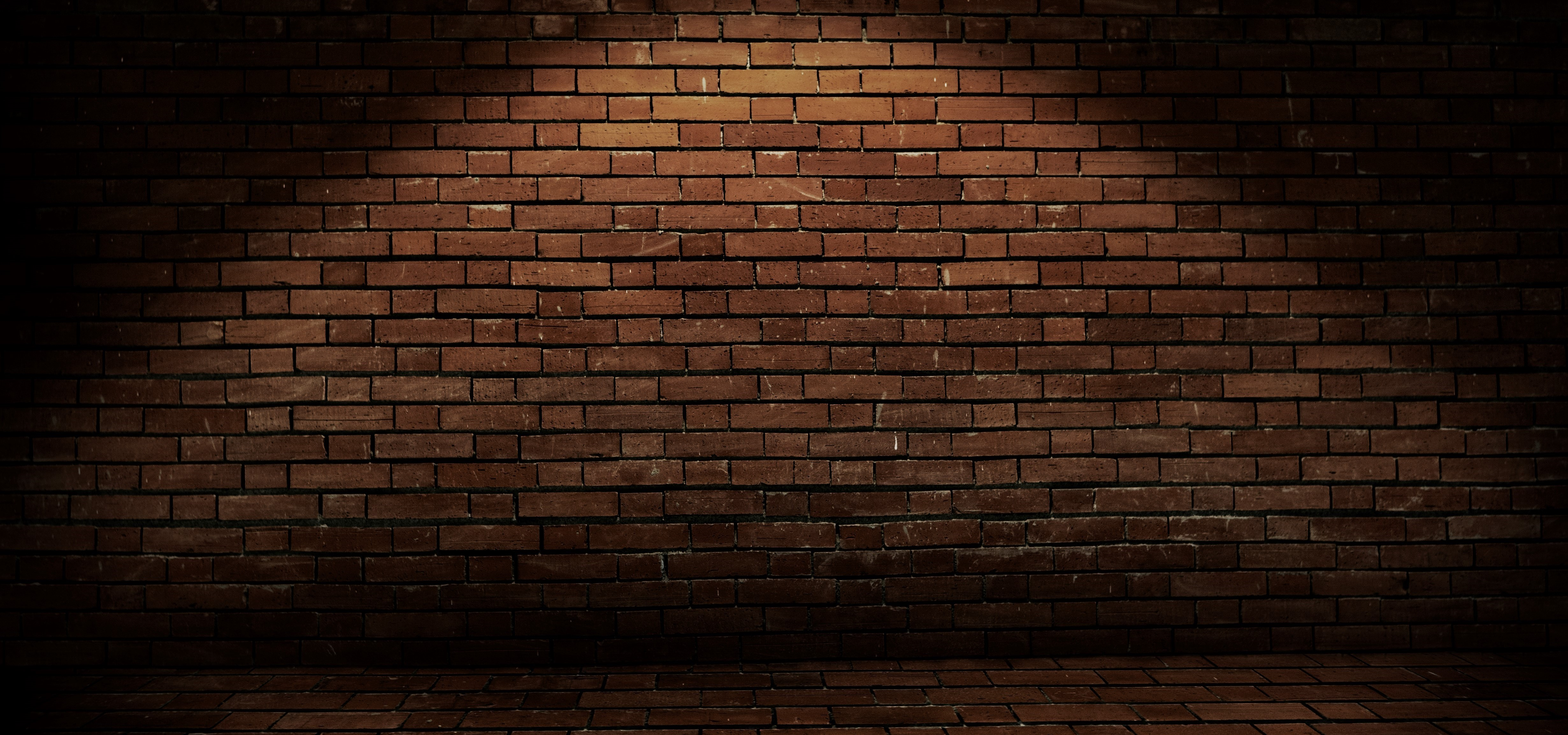
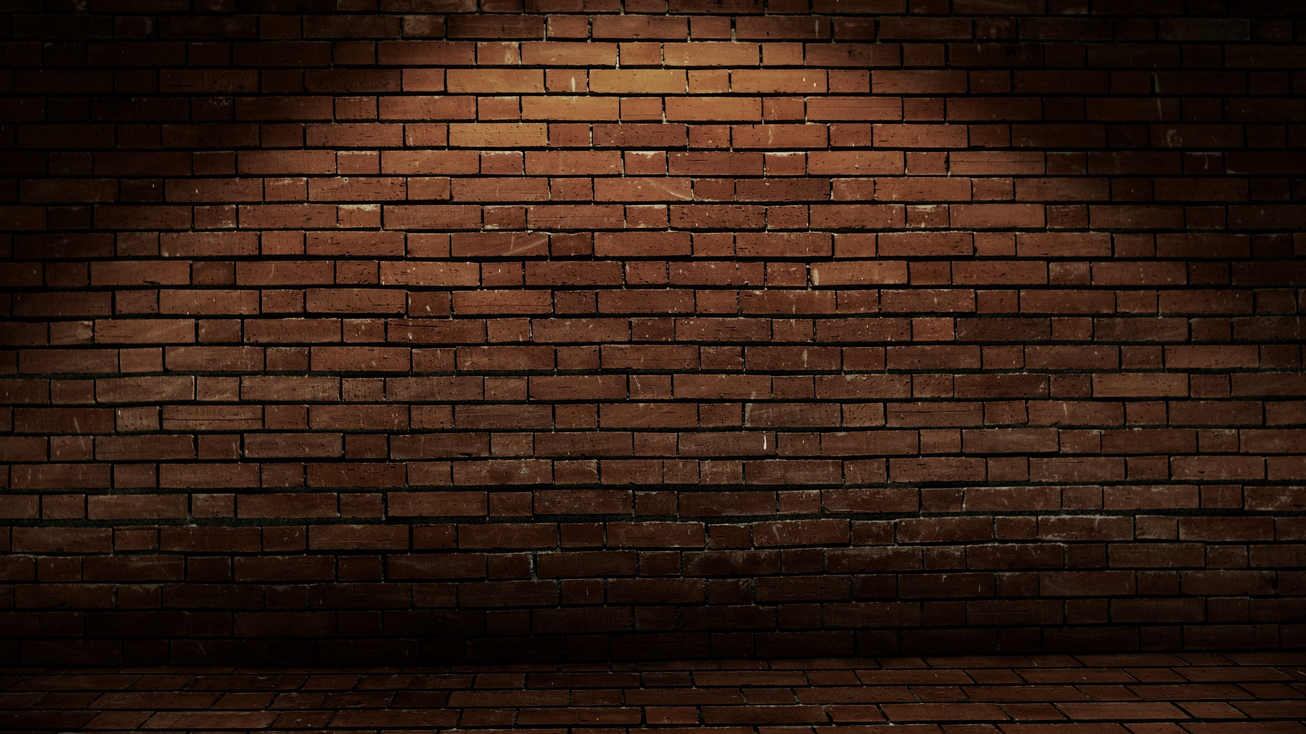
modify full screen ratio

diff --git a/backend/src/flaskapp/static/css/result.css b/backend/src/flaskapp/static/css/result.css
@@ -130,10 +130,11 @@ a:visited { color: black; text-decoration: none;}
     left:28%;
     right:28%;
     top:62%;
-    font-size: 3vw;
+    font-size: 4.5vw;
     color: #fff;
     font-family: 'East Sea Dokdo', cursive;
     font-weight: 200;
+    text-align:center;
 }
 
 p.result1{
@@ -142,6 +143,7 @@ p.result1{
     line-height: 65px;
     box-sizing: border-box;
     padding:0; margin:5px;
+    text-align:center;
 }
 #back{
     position: absolute;

diff --git a/backend/src/flaskapp/static/css/start.css b/backend/src/flaskapp/static/css/start.css
@@ -35,7 +35,7 @@ a:visited { color: black; text-decoration: none;}
     position: absolute;
     left:26.5%;
     right:23.5%;
-    top:33%;
+    top:38%;
     font-size: 5vw;
     color: #000;
     font-family: 'East Sea Dokdo', cursive;
@@ -49,6 +49,7 @@ p.result1{
     line-height: 110px;
     box-sizing: border-box;
     padding:0; margin:5px;
+    text-align:center;
 }
 
 .wrap {

diff --git a/backend/src/flaskapp/templates/luck.html b/backend/src/flaskapp/templates/luck.html
@@ -18,7 +18,7 @@
         <div id="text-box">
             <p class="result1"></p>
             <br>
-            <p class="result2" style="font-size: 65px;"></p>
+            <p class="result2" style="font-size: 85px;"></p>
             <script src="../static/js/luck.js"></script>
         </div>
         <div class="wrap">

diff --git a/backend/src/flaskapp/static/css/luck.css b/backend/src/flaskapp/static/css/luck.css
@@ -36,7 +36,7 @@ a:visited { color: black; text-decoration: none;}
     font-size: 5.5vw;
     left:27%;
     right:25%;
-    top:32%;
+    top:37%;
     color: #000;
     font-weight: 500;
     text-align:center;
